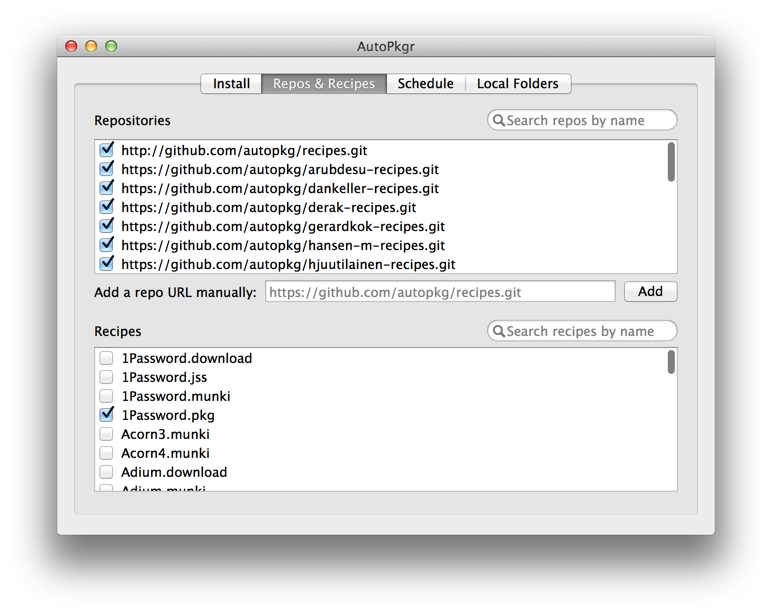
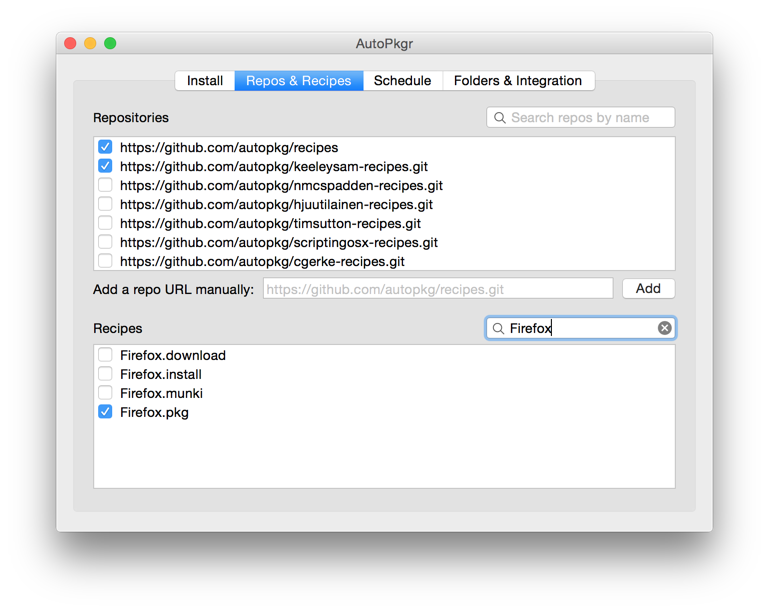
Updated screenshots/readme for Yosemite.

Changed region(s): [[0.0624, 0.0621, 0.9675, 0.9314]]

diff --git a/README.md b/README.md
@@ -18,6 +18,7 @@ Here are the tasks that AutoPkgr makes easier:
 * Installation of AutoPkg itself.
 * Installation of Git, which AutoPkg requires.
 * Discovery of and subscription to popular AutoPkg recipe repositories.
+* Ability to easily create AutoPkg recipe overrides.
 * Configuration of AutoPkg to use a local [Munki](https://code.google.com/p/munki/) repo.
 * Basic integration of AutoPkg with the JAMF Casper Suite.
 
@@ -111,7 +112,7 @@ You'll also want to make sure you have a few `.jss` recipes selected. AutoPkgr w
 
 When a `.jss` recipe runs, the package is uploaded to your distribution points, a Self Service policy is created and scoped to a new smart group. As a result, computers in the Testing group with less than the latest version of the app should now be able to install the latest version through Self Service.
 
-<!-- Insert link to Elliot's presentation here, once it's online. -->
+For detailed tips on integrating AutoPkgr with Casper, and to see some descriptions of example workflows, read [Auto Update Magic](https://github.com/homebysix/auto-update-magic).
 
 
 Troubleshooting
